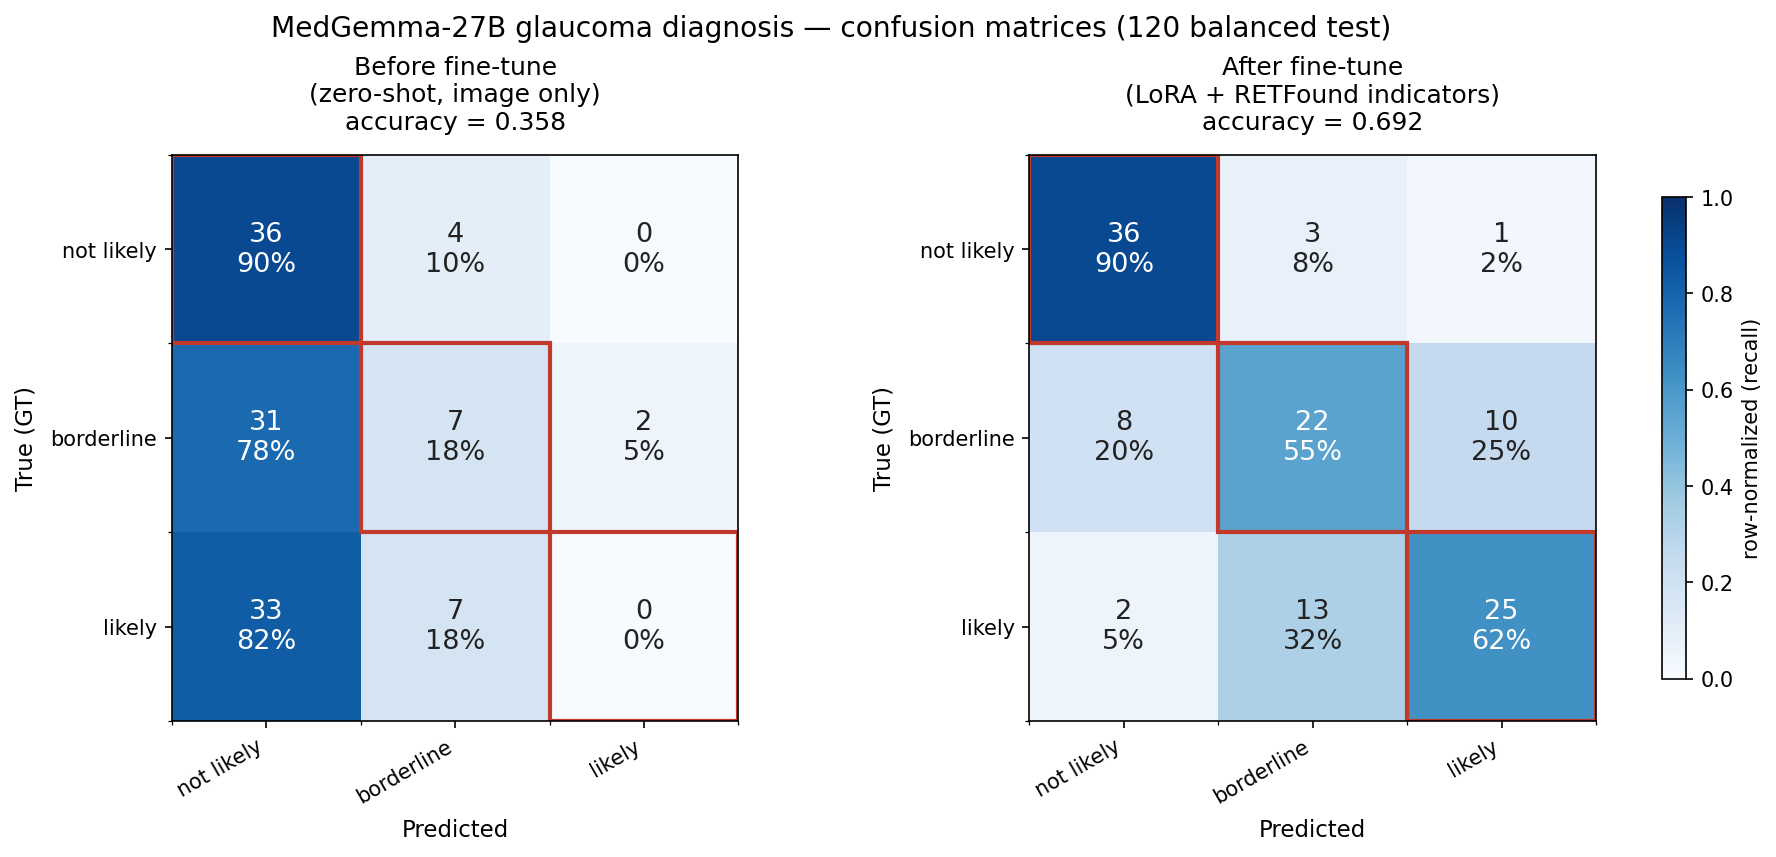
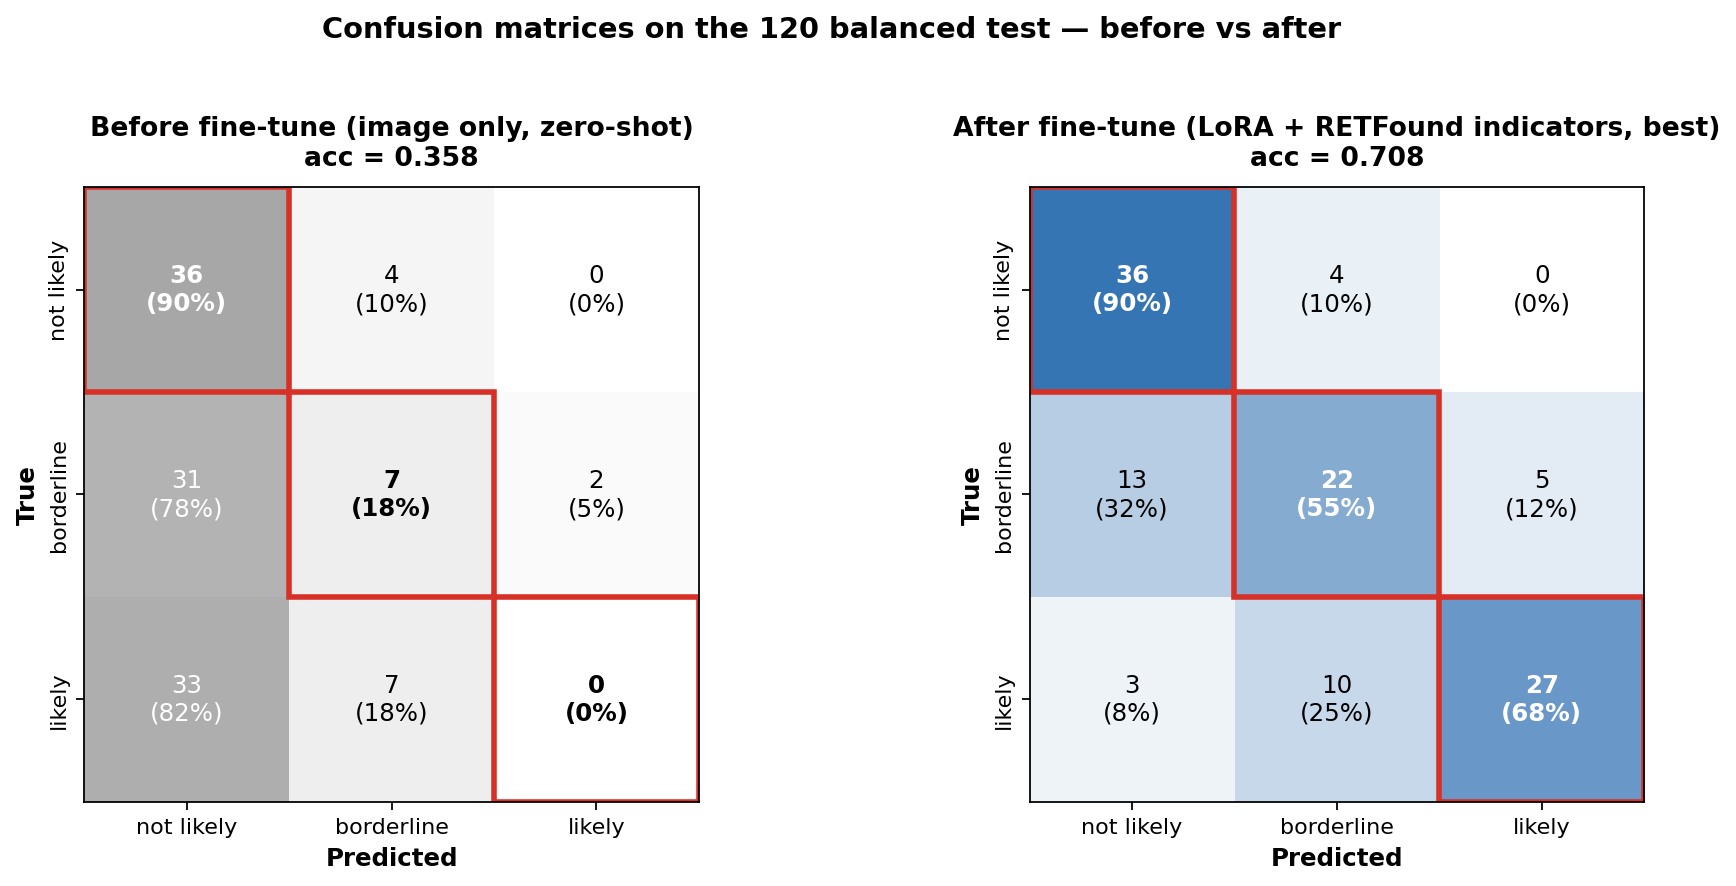
README: update result + before/after confusion matrix to best run (exp4, 0.708)
- Part 4 confusion table -> exp4 (acc 0.708), add exp4_confmat.png + update note
- Part 5 floor-vs-full + caption: after panel = exp4 0.708 (was v2_cw 0.692)
- regenerate reports/confmat_before_after.png with after = 0.708

diff --git a/README.md b/README.md
@@ -287,24 +287,31 @@ Inference: **no in-context examples** — system prompt + image + predicted-indi
 
 ---
 
-## Part 4 — Result (120 balanced test) → **0.692**
+## Part 4 — Result (120 balanced test) → **0.708** (best run, exp4)
 
-Overall accuracy = mean of the three per-class recalls = (0.90 + 0.55 + 0.625) / 3 = **0.692**.
+> **Updated to the best result (exp4).** `exp4` is the same v2_cw target-consistency LoRA
+> with the **25 internally self-contradictory "forced" cases removed** from training; it
+> reaches **0.708** vs 0.692 for the original v2_cw run. The confusion matrix below and the
+> "after" panel in Part 5 now reflect this best run.
+
+Overall accuracy = mean of the three per-class recalls = (0.90 + 0.55 + 0.675) / 3 = **0.708**.
 
 **Confusion matrix** — each true class has exactly 40 images; diagonal = correct.
 
 | True class (n = 40) | → predicted not likely | → predicted borderline | → predicted likely | Recall |
 |---|:---:|:---:|:---:|:---:|
-| **not likely** | **36** | 3 | 1 | 0.900 (36/40) |
-| **borderline** | 8 | **22** | 10 | 0.550 (22/40) |
-| **likely** | 2 | 13 | **25** | 0.625 (25/40) |
+| **not likely** | **36** | 4 | 0 | 0.900 (36/40) |
+| **borderline** | 13 | **22** | 5 | 0.550 (22/40) |
+| **likely** | 3 | 10 | **27** | 0.675 (27/40) |
 
 Read by row:
-- **not likely (40):** 36 correct; 3 over-called as borderline, 1 as likely. *(strongest class)*
-- **borderline (40):** 22 correct; 10 over-called as likely, 8 under-called as not likely. *(hardest class — sits between the other two)*
-- **likely (40):** 25 correct; 13 under-called as borderline, 2 as not likely.
+- **not likely (40):** 36 correct; 4 over-called as borderline, 0 as likely. *(strongest class)*
+- **borderline (40):** 22 correct; 5 over-called as likely, 13 under-called as not likely. *(hardest class — sits between the other two)*
+- **likely (40):** 27 correct; 10 under-called as borderline, 3 as not likely.
 
-Column totals (what the model predicted): not likely 46, borderline 38, likely 36.
+Column totals (what the model predicted): not likely 52, borderline 36, likely 32.
+
+![exp4 confusion matrix](reports/exp4_confmat.png)
 
 ---
 
@@ -320,10 +327,10 @@ indicators, no in-context examples, no fine-tuning**. Same 120 balanced test, gr
 | Setup | What the model is given | Accuracy | Δ |
 |---|---|:---:|:---:|
 | **Image-only** (orig 27b, no LoRA, no indicators) | image only | **0.358** | — |
-| **Full pipeline** (v2_cw: + RETFound indicators + LoRA) | image + indicators + LoRA | **0.692** | **+0.334** |
+| **Full pipeline** (best run exp4: + RETFound indicators + LoRA) | image + indicators + LoRA | **0.708** | **+0.350** |
 
 - **Image-only ≈ random.** 3-class balanced chance = 0.333; the model scores **0.358** — it has essentially no standalone ability to read the optic nerve head.
-- **The full RETFound-indicator pipeline lifts this by +0.334** (chance-level 0.358 → 0.692, i.e. +33 points). Structuring RETFound's measurements into the prompt — not the VLM's raw image understanding — is what produces the diagnostic signal.
+- **The full RETFound-indicator pipeline lifts this by +0.350** (chance-level 0.358 → 0.708, i.e. +35 points). Structuring RETFound's measurements into the prompt — not the VLM's raw image understanding — is what produces the diagnostic signal.
 
 **Why image-only fails — per-class breakdown (the floor):**
 
@@ -341,7 +348,7 @@ RETFound measurements, a general-purpose 27b VLM is effectively blind to glaucom
 **Takeaway:** the RETFound *quantify-then-reason* pipeline is not optional polish — it is the
 source of the diagnostic signal. Feeding a strong VLM the raw image alone yields chance-level
 accuracy; structuring RETFound's CDR / ISNT / sign measurements into the prompt is what makes
-the 0.69 result possible.
+the 0.71 result possible.
 
 ### Confusion matrices — before vs after (visual)
 
@@ -350,6 +357,6 @@ the 0.69 result possible.
 *Confusion matrices on the 120-image balanced test set. Rows = true class, columns = predicted,
 color = row-normalized (recall), cells show raw count + row %, red box = diagonal (correct).
 **Left — before fine-tune** (zero-shot, image only, acc 0.358): collapses to "not likely"
-(first column), likely recall = 0. **Right — after fine-tune** (LoRA + RETFound indicators,
-acc 0.692): strong diagonal, borderline and likely recovered. Numbers identical to the two
-tables above (`eval_zeroshot_imageonly_vllm` / `eval_v2_cw`).*
+(first column), likely recall = 0. **Right — after fine-tune** (best run exp4, LoRA + RETFound
+indicators, acc 0.708): strong diagonal, borderline and likely recovered. Numbers identical to
+the two tables above (`eval_zeroshot_imageonly_vllm` / `eval_exp4`).*
